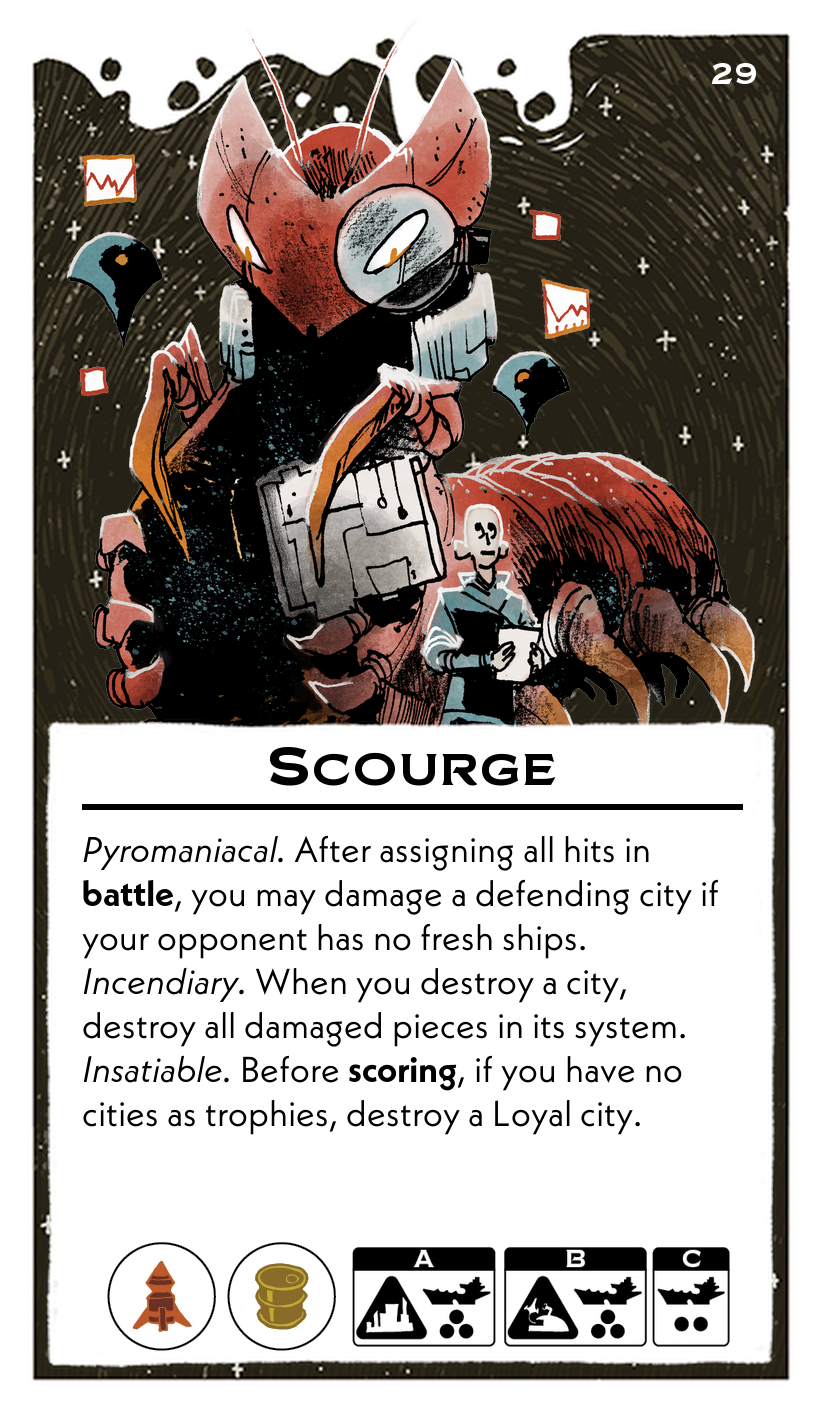
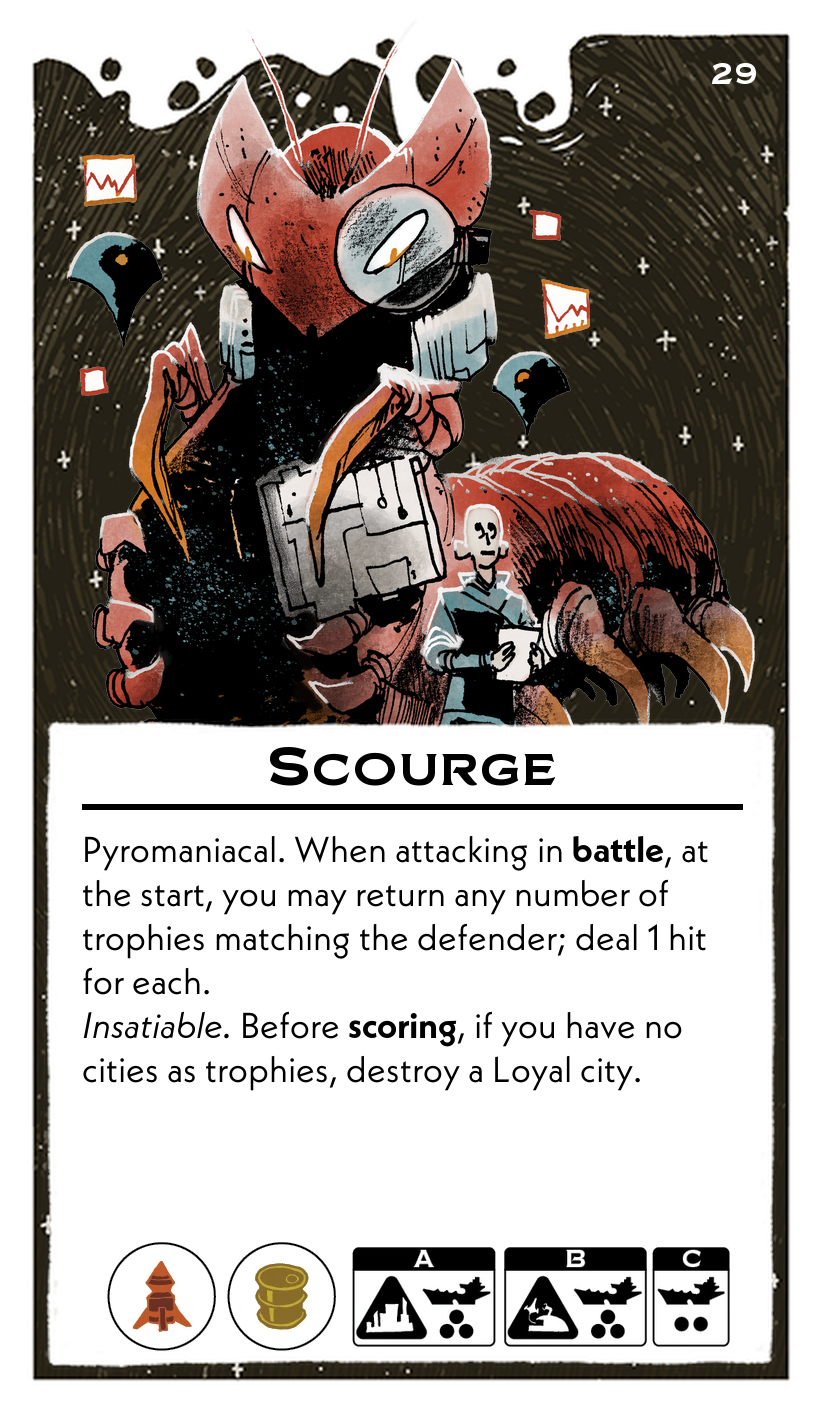
scourge

Changed region(s): [[0.0912, 0.5912, 0.882, 0.8091]]

diff --git a/scripts/leadersFormatted.py b/scripts/leadersFormatted.py
@@ -448,8 +448,7 @@ leaders = [
     {
         "name": "Scourge",
         "abilities": (
-            "*Pyromaniacal.* After assigning all hits in **battle**, you may damage a defending city if your opponent has no fresh ships.\n"
-            "*Incendiary.* When you destroy a city, destroy all damaged pieces in its system.\n"
+            "Pyromaniacal. When attacking in **battle**, at the start, you may return any number of trophies matching the defender; deal 1 hit for each.\n"
             "*Insatiable.* Before **scoring**, if you have no cities as trophies, destroy a Loyal city."
         ),
         "resources": ["Weapon", "Fuel"],
